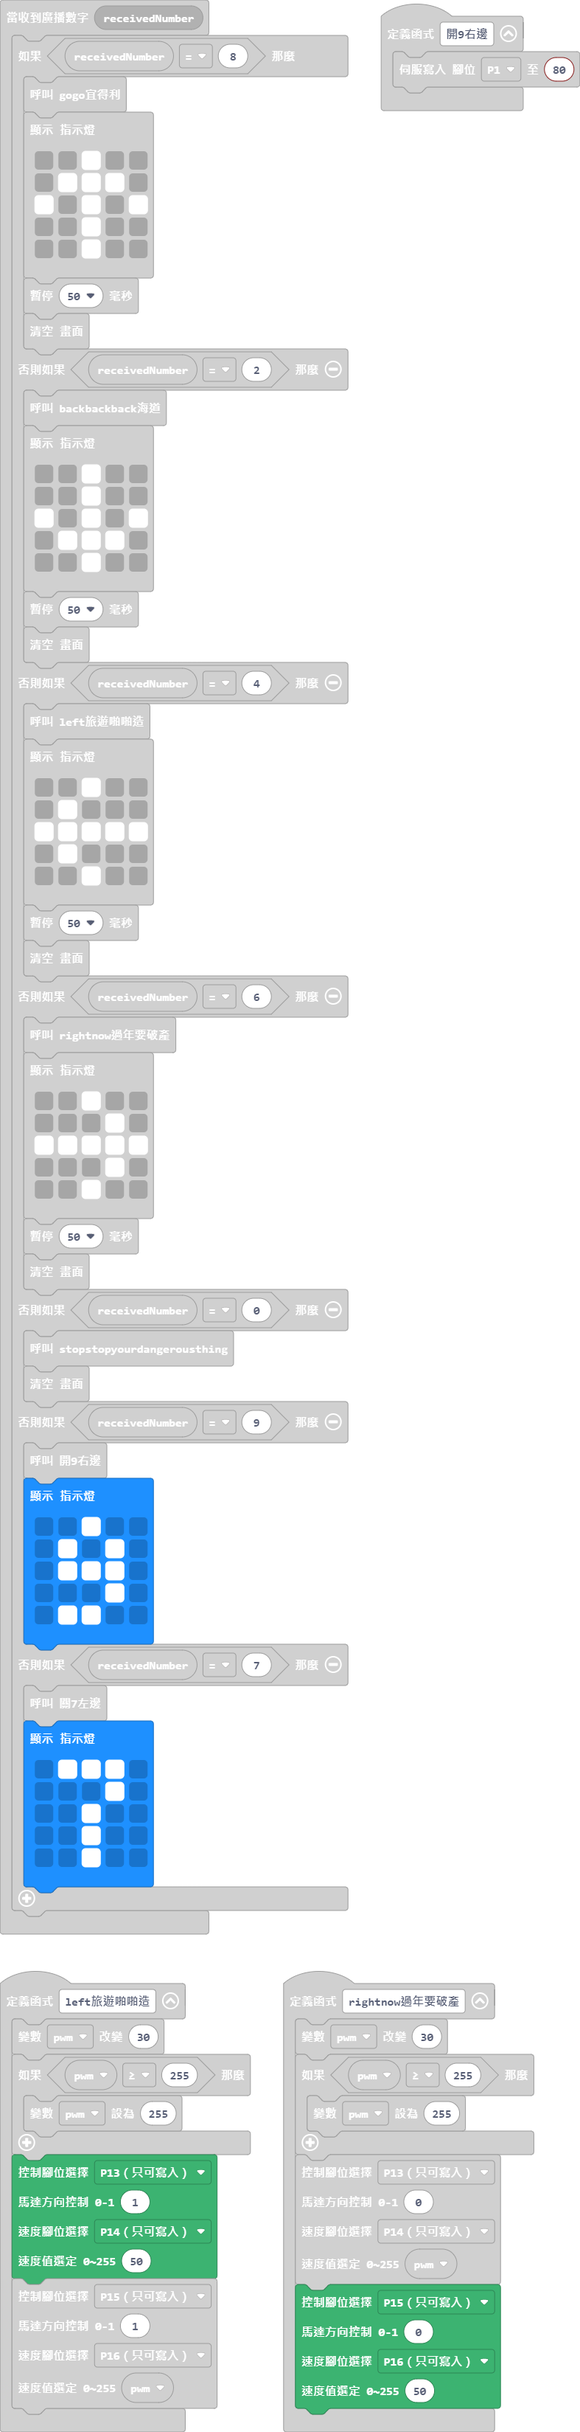
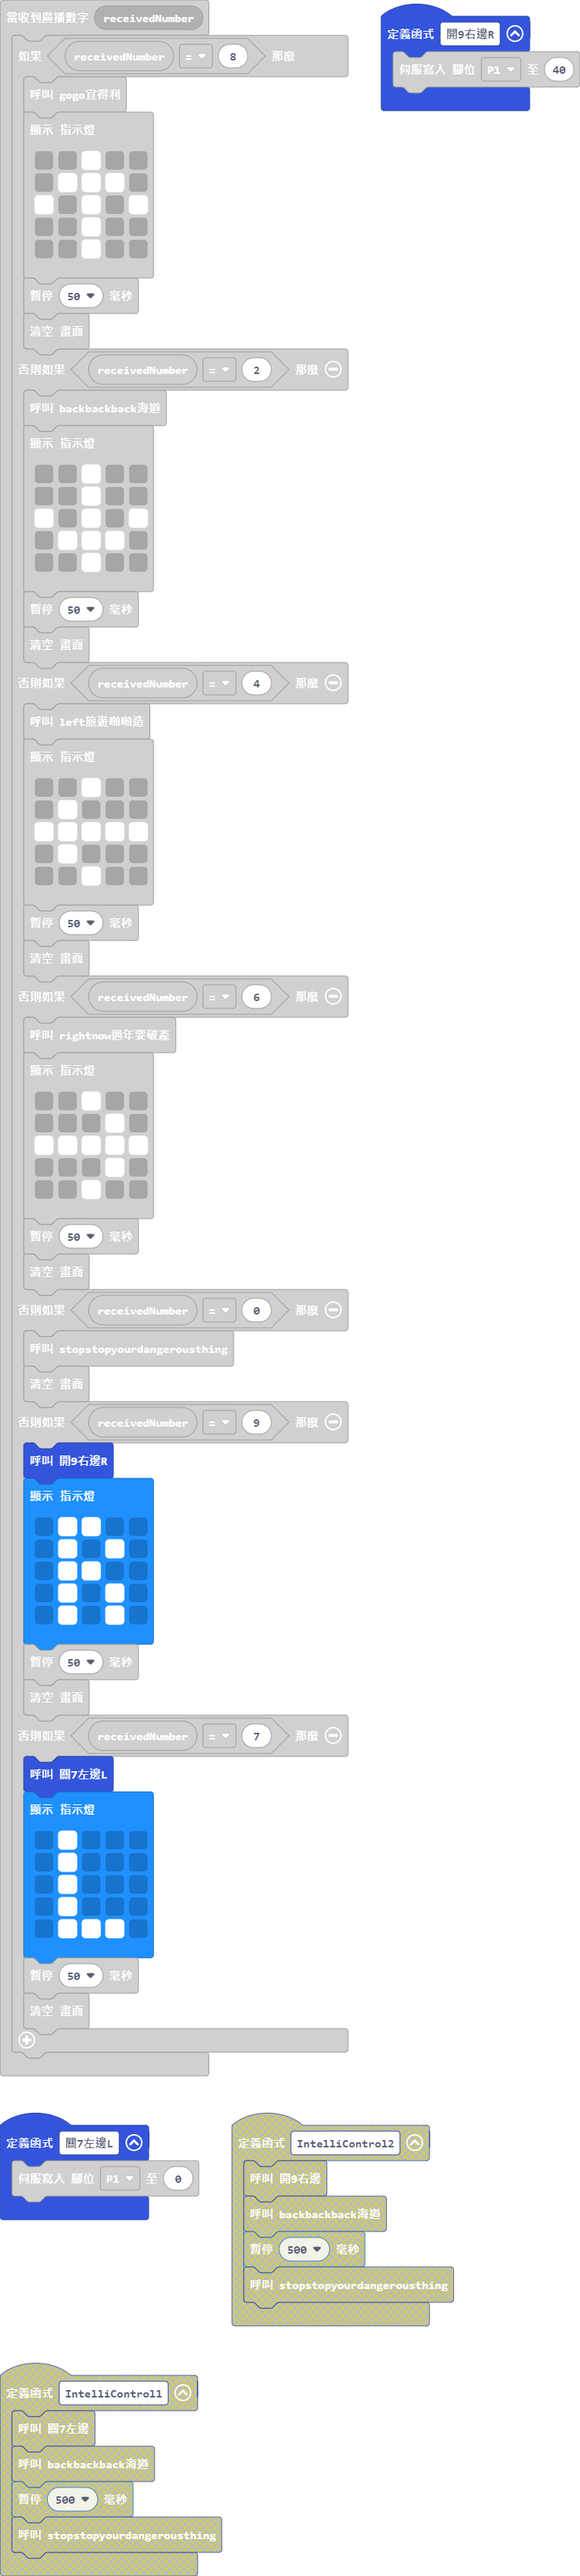
更新 main.blocks, main.ts

Changed region(s): [[0.0, 0.0, 0.9454, 1.0], [0.6404, 0.0, 1.0, 0.0625]]

diff --git a/main.ts b/main.ts
@@ -62,31 +62,34 @@ radio.onReceivedNumber(function (receivedNumber) {
         stopstopyourdangerousthing()
         basic.clearScreen()
     } else if (receivedNumber == 9) {
-        開9右邊()
+        開9右邊R()
         basic.showLeds(`
-            . . # . .
-            . # . # .
-            . # # # .
-            . . . # .
             . # # . .
+            . # . # .
+            . # # . .
+            . # . # .
+            . # . # .
             `)
         basic.pause(50)
         basic.clearScreen()
     } else if (receivedNumber == 7) {
-        關7左邊()
+        關7左邊L()
         basic.showLeds(`
+            . # . . .
+            . # . . .
+            . # . . .
+            . # . . .
             . # # # .
-            . . . # .
-            . . # . .
-            . . # . .
-            . . # . .
             `)
         basic.pause(50)
         basic.clearScreen()
     }
 })
-function 開9右邊 () {
+function 開9右邊R () {
     pins.servoWritePin(AnalogPin.P1, 40)
+}
+function 關7左邊L () {
+    pins.servoWritePin(AnalogPin.P1, 0)
 }
 function left旅遊啪啪造 () {
     pwm += 30
@@ -106,12 +109,6 @@ function left旅遊啪啪造 () {
     pwm
     )
 }
-function IntelliControl2 () {
-    開9右邊()
-    backbackback海道()
-    basic.pause(500)
-    stopstopyourdangerousthing()
-}
 function stopstopyourdangerousthing () {
     sensors.DDMmotor(
     AnalogPin.P13,
@@ -125,15 +122,6 @@ function stopstopyourdangerousthing () {
     AnalogPin.P16,
     0
     )
-}
-function 關7左邊 () {
-    pins.servoWritePin(AnalogPin.P1, 0)
-}
-function IntelliControl1 () {
-    關7左邊()
-    backbackback海道()
-    basic.pause(500)
-    stopstopyourdangerousthing()
 }
 function rightnow過年要破產 () {
     pwm += 30
